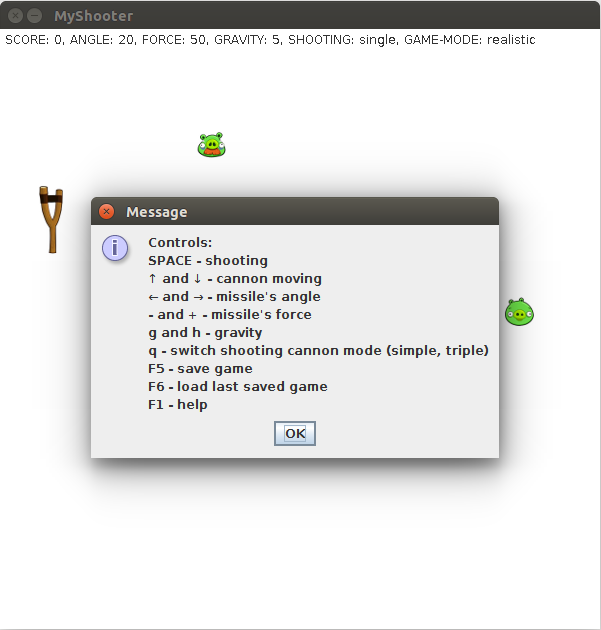
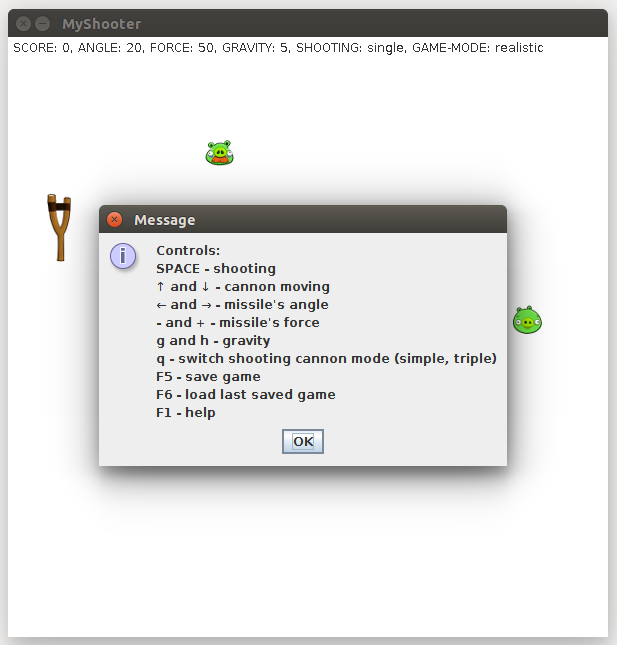
edited README

Changed region(s): [[0.0, 0.0, 1.0, 1.0], [0.0599, 0.2714, 0.8985, 0.754], [0.3295, 0.2111, 0.3894, 0.2714]]

diff --git a/README.md b/README.md
@@ -1,6 +1,6 @@
 # Semestrální práce
 
-![GitHub Logo](/images/shooter.png)
+![GitHub Logo](/images/help.png)
 
 * MVC hra
 * výběr z vlastností:
